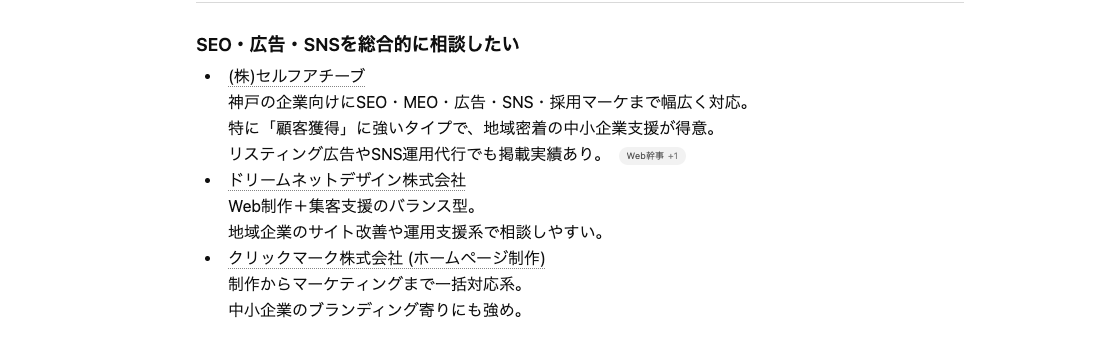
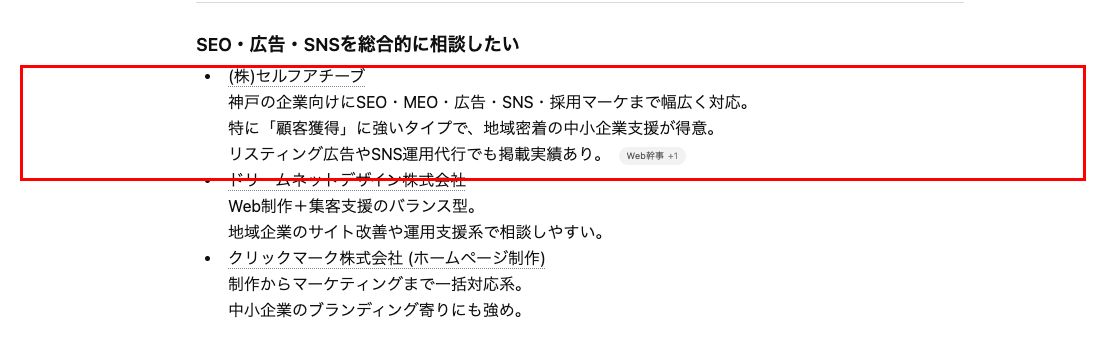
ai-seo: ラベルをダッシュ形式に変更・ドロップシャドウ削除・画像に赤枠加工

Changed region(s): [[0.0, 0.4871, 0.9864, 0.5158], [0.0, 0.1719, 0.9864, 0.2006]]

diff --git a/ai-seo/index.html b/ai-seo/index.html
@@ -213,14 +213,11 @@ body {
     text-transform: uppercase;
     color: #666;
     margin-bottom: 12px;
-    padding-left: 10px;
-    border-left: 3px solid #000;
   }
   .problem-evidence-item img {
     width: 100%;
     border: 1px solid #e5e5e5;
     border-radius: 8px;
-    box-shadow: 0 4px 16px rgba(0,0,0,.08);
   }
   @media (max-width: 767px) {
     .problem-evidence {
@@ -639,11 +636,11 @@ AI検索の回答に自社を表示させる施策。
     <!-- 実績イメージ -->
     <div class="problem-evidence">
       <div class="problem-evidence-item">
-        <p class="problem-evidence-label">Google AI Overviews での表示例</p>
+        <p class="problem-evidence-label">— Google AI Overviews での表示例</p>
         <img src="img/overview.png" alt="GoogleのAI Overviewsに株式会社セルフアチーブが表示されているスクリーンショット" loading="lazy">
       </div>
       <div class="problem-evidence-item">
-        <p class="problem-evidence-label">ChatGPT での表示例</p>
+        <p class="problem-evidence-label">— ChatGPT での表示例</p>
         <img src="img/gpt.png" alt="ChatGPTの回答に株式会社セルフアチーブが表示されているスクリーンショット（マップ）" loading="lazy">
         <img src="img/gpt2.png" alt="ChatGPTの回答に株式会社セルフアチーブが表示されているスクリーンショット（テキスト）" loading="lazy" style="margin-top:12px">
       </div>
